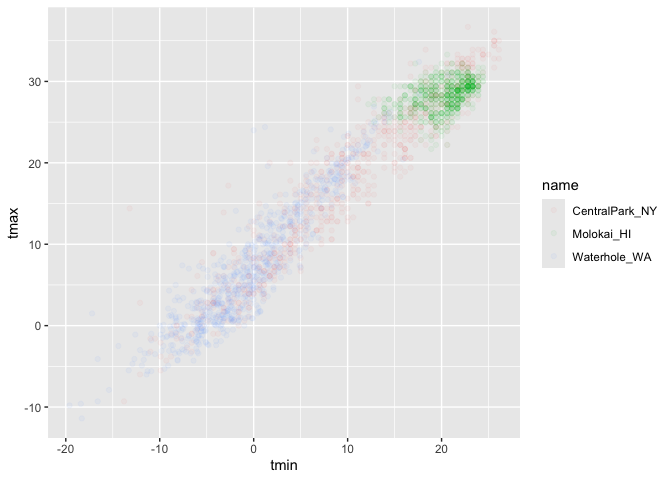
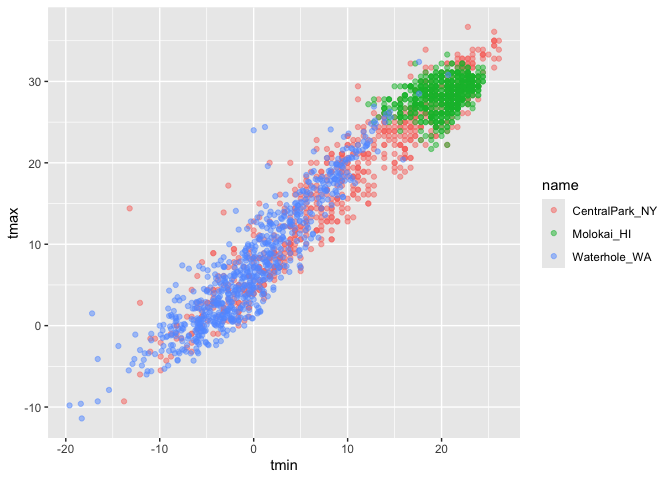
color scales

diff --git a/02_viz.md b/02_viz.md
@@ -318,7 +318,7 @@ weather_df |>
 ``` r
 weather_df |> 
   ggplot(aes(x = tmin, y = tmax, color = name)) +
-  geom_point(alpha = .05)
+  geom_point(alpha = .5)
 ```
 
     ## Warning: Removed 17 rows containing missing values or values outside the scale range
@@ -331,7 +331,7 @@ weather_df |>
 ``` r
 weather_df |> 
   ggplot(aes(x = tmin, y = tmax, color = name)) +
-  geom_point(alpha = .05) +
+  geom_point(alpha = .5) +
   labs(
     title = "Temperature plot",
     x = "Minimum daily temperature (C)",
@@ -344,3 +344,79 @@ weather_df |>
     ## (`geom_point()`).
 
 ![](02_viz_files/figure-gfm/unnamed-chunk-19-1.png)<!-- -->
+
+## Scales
+
+Start with the same plot
+
+``` r
+weather_df |> 
+  ggplot(aes(x = tmin, y = tmax, color = name)) +
+  geom_point(alpha = .5) +
+  labs(
+    title = "Temperature plot",
+    x = "Minimum daily temperature (C)",
+    y = "Maximum daily temperature (C)",
+    caption = "Data from rnoaa package; temperatures in 2017."
+  ) +
+  scale_x_continuous(
+    breaks = c(-15, 0, 15),
+    labels = c("-15 C", "0", "15")
+  ) +
+  scale_y_continuous(
+    trans = "sqrt",
+    position = "right"
+  )
+```
+
+    ## Warning in transformation$transform(x): NaNs produced
+
+    ## Warning in scale_y_continuous(trans = "sqrt", position = "right"): sqrt
+    ## transformation introduced infinite values.
+
+    ## Warning: Removed 142 rows containing missing values or values outside the scale range
+    ## (`geom_point()`).
+
+![](02_viz_files/figure-gfm/unnamed-chunk-20-1.png)<!-- -->
+
+Look at color scales
+
+``` r
+weather_df |> 
+  ggplot(aes(x = tmin, y = tmax, color = name)) +
+  geom_point(alpha = .5) +
+  labs(
+    title = "Temperature plot",
+    x = "Minimum daily temperature (C)",
+    y = "Maximum daily temperature (C)",
+    caption = "Data from rnoaa package; temperatures in 2017."
+  ) +
+  scale_color_hue(
+    name = "Location",
+    h = c(100, 300))
+```
+
+    ## Warning: Removed 17 rows containing missing values or values outside the scale range
+    ## (`geom_point()`).
+
+![](02_viz_files/figure-gfm/unnamed-chunk-21-1.png)<!-- -->
+
+``` r
+weather_df |> 
+  ggplot(aes(x = tmin, y = tmax, color = name)) +
+  geom_point(alpha = .5) +
+  labs(
+    title = "Temperature plot",
+    x = "Minimum daily temperature (C)",
+    y = "Maximum daily temperature (C)",
+    caption = "Data from rnoaa package; temperatures in 2017."
+  ) +
+  viridis::scale_color_viridis(
+    name = "Location",
+    discrete = TRUE)
+```
+
+    ## Warning: Removed 17 rows containing missing values or values outside the scale range
+    ## (`geom_point()`).
+
+![](02_viz_files/figure-gfm/unnamed-chunk-22-1.png)<!-- -->
